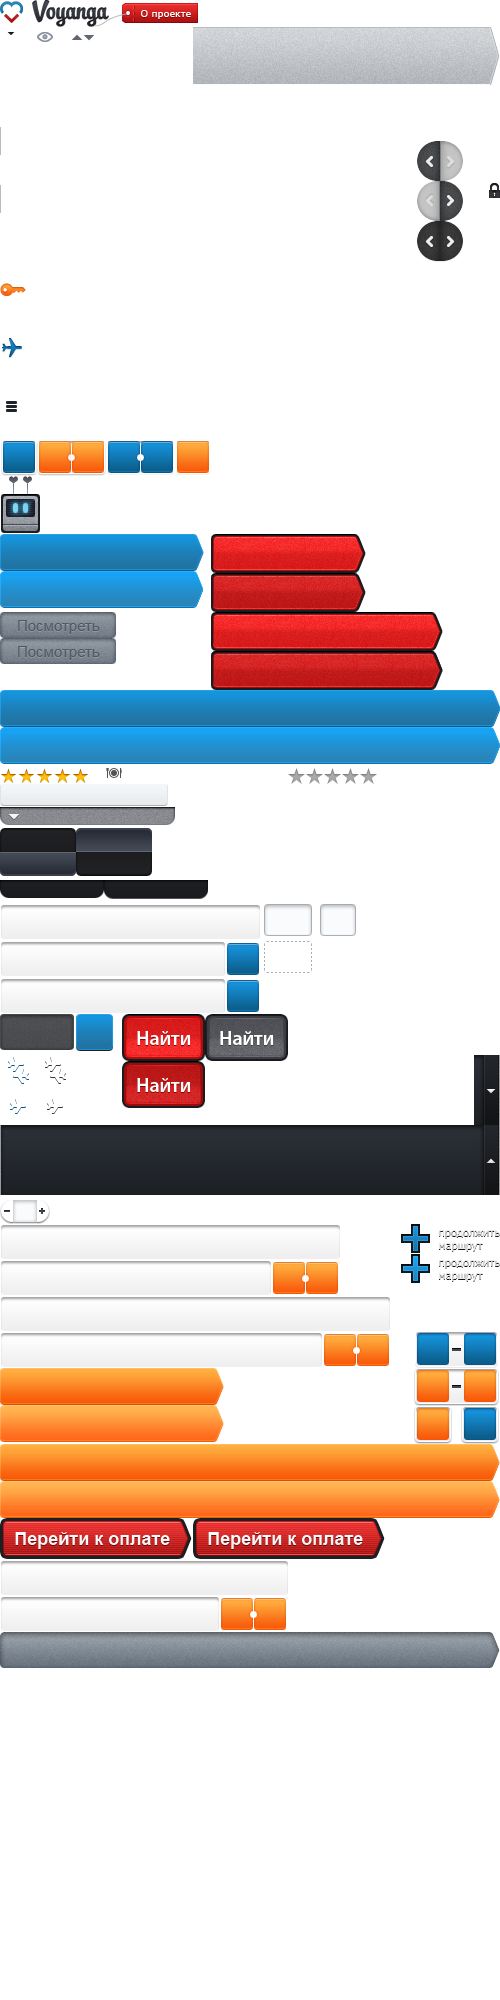
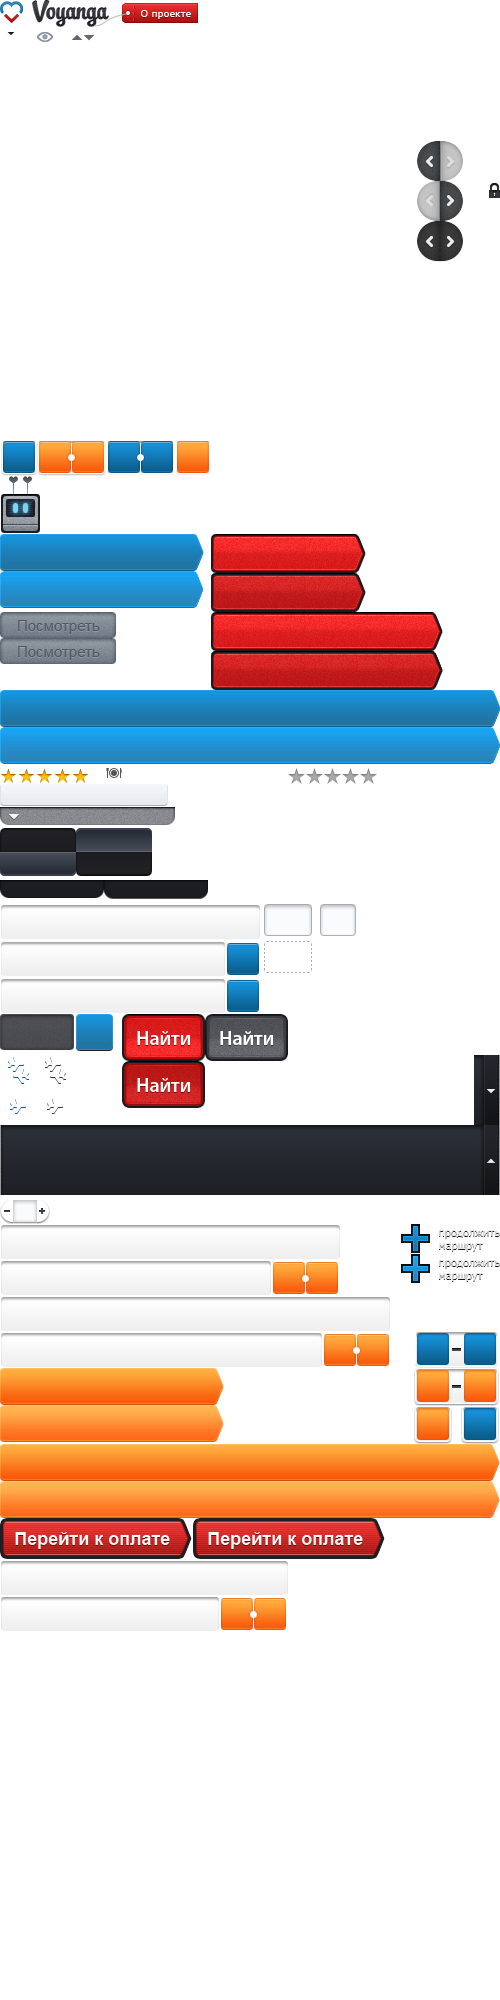
Btn и Tours

Changed region(s): [[0.39, 0.0, 1.0, 0.062], [0.0, 0.806, 1.0, 0.837], [0.0, 0.124, 0.03, 0.186]]

diff --git a/frontend/www/themes/v2/css/btn.css b/frontend/www/themes/v2/css/btn.css
@@ -62,7 +62,7 @@
     width: 117px;
 }
 .btn-cost {
-    background: url("../images/slice.png") no-repeat scroll right -690px transparent;
+    background: url("../images/btn.png") no-repeat scroll right 0px transparent;
     color: #FFFFFF;
     display: inline-block;
     font-size: 14px;
@@ -76,39 +76,26 @@
     text-align: center;
     text-shadow: 0 1px 0 #0B5B88;
 }
-.btn-cost.selected {
-    background-position: right -1632px;
-    text-shadow: 0 1px 0 #444D57;
-}
-.btn-cost.selected .l {
-    background-position: left -1632px;
-}
-.btn-cost.selected:hover {
-    background-position: right -1632px;
-    text-shadow: 0 1px 0 #444D57;
-}
-.btn-cost.selected:hover .l {
-    background-position: left -1632px;
-}
+
 .btn-cost.hotel {
-    background-position: right -1444px;
+    background-position: right -74px;
 }
 .btn-cost.hotel:hover {
-    background-position: right -1481px;
+    background-position: right -111px;
     color: #FFFFFF;
 }
 .btn-cost.hotel .l {
-    background-position: left -1444px;
+    background-position: left -74px;
 }
 .btn-cost.hotel:hover .l {
-    background-position: left -1481px;
+    background-position: left -111px;
 }
 .btn-cost:hover {
-    background-position: right -727px;
+    background-position: right -37px;
     color: #FFFFFF !important;
 }
 .btn-cost .l {
-    background: url("../images/slice.png") no-repeat scroll left -690px transparent;
+    background: url("../images/btn.png") no-repeat scroll left 0px transparent;
     display: block;
     height: 37px;
     left: -3px;
@@ -117,7 +104,7 @@
     width: 10px;
 }
 .btn-cost:hover .l {
-    background-position: left -727px;
+    background-position: left -37px;
 }
 .btn-cost .price, .btn-cost .rur {
     font-size: 26px;
@@ -245,4 +232,76 @@
 	height: 7px;
 	background: url(../images/bg-btn-dotted.png) no-repeat;
 	margin-left: 0px;
+}
+/* btnOrang */
+.btnOrang {
+    background: url("../images/btn.png") no-repeat scroll right -74px transparent;
+    color: #FFFFFF;
+    cursor: pointer;
+    display: inline-block;
+    font-family: Arial;
+    font-size: 14px;
+    font-weight: bold;
+    height: 37px;
+    line-height: 34px;
+    padding-left: 3px;
+    padding-right: 10px;
+    position: relative;
+    text-align: center;
+    text-shadow: 0 1px 0 #c36408;
+    vertical-align: middle;
+}
+
+.btnOrang span {
+    display: inline-block;
+    vertical-align: middle;
+    position: relative;
+    z-index: 2;
+}
+.btnOrang .price {
+    font-size: 26px;
+}
+.btnOrang .rur {
+    font-size: 25px;
+    margin-top: 6px;
+}
+@media screen and (-webkit-min-device-pixel-ratio:0) {
+	body:first-of-type .btnOrang .rur {
+	    font-size: 25px;
+	    margin-top: 4px;
+	}
+}
+
+.btnOrang .l {
+	background: url("../images/btn.png") no-repeat scroll left -74px transparent;
+	display: block;
+	position: absolute;
+	height: 37px;
+	width: 6px;
+	left: -4px;
+	top: 0px;
+	z-index: 1;
+}
+.btnOrang:hover {
+	background-position: right -111px;
+}
+.btnOrang:hover .l {
+	background-position: left -111px;
+}
+
+.btnBlue.inactive, .btnOrang.inactive, .btn-cost.selected {
+	background-position: right -148px;
+	text-shadow: 0 1px 0 #444D57;
+	cursor: default;
+}
+.btnBlue.inactive .l, .btnOrang.inactive .l, .btn-cost.selected .l {
+	background-position: left -148px;
+}
+.btnBlue.inactive:hover, .btnOrang.inactive:hover, .btn-cost.selected:hover {
+	background-position: right -148px;
+	text-shadow: 0 1px 0 #444D57;
+	cursor: default;
+}
+.btnBlue.inactive:hover .l, .btnOrang.inactive:hover .l, .btn-cost.selected:hover .l {
+	background-position: left -148px;
 }

diff --git a/frontend/www/themes/v2/css/style.css b/frontend/www/themes/v2/css/style.css
@@ -1701,7 +1701,6 @@ input.hotel-input {
 .costItAll {
     color: #252628;
     font-size: 22px;
-    padding-bottom: 70px;
     padding-right: 112px;
     text-align: right;
 }

diff --git a/frontend/www/themes/v2/css/panel.css b/frontend/www/themes/v2/css/panel.css
@@ -283,7 +283,7 @@
 .slide-tmblr {
 	height: 68px;
     overflow: hidden;
-    width: 948px;
+    width: 800px;
     position: absolute;
     left: 106px;
     top: 0px;

diff --git a/frontend/www/themes/v2/views/tours/overview.php b/frontend/www/themes/v2/views/tours/overview.php
@@ -68,7 +68,7 @@ $images = 'themes/v2';
       
       </div>
       <br>
-      <div class="hr-bg">
+      <div class="hr-bg" data-bind="visible: someSegmentsSelected">
         <img src="<?php echo $images.'/images/shadow-hotel.png' ?>" width="100%" height="31">
       </div>
       <div class="costItAll" data-bind="visible: someSegmentsSelected">
@@ -133,7 +133,7 @@ $images = 'themes/v2';
 	<tr data-bind="if: isAvia()">
 	  <td class="text"><span data-bind="text:selection()?'Или другой':'Выберите'"></span> вариант среди: <span class="f19" data-bind="text:numAirlines()">19</span> авиакомпаний, от <span class="f19"  data-bind="html: minPriceHtml()"></span> до <span class="f19"  data-bind="html: maxPriceHtml()"></span></td>
 	  <td class="buttons">
-            <a class="btn-cost" href="#" data-bind="click: $parents[1].setActive">
+            <a class="btnBlue" href="#" data-bind="click: $parents[1].setActive">
               <span class="l"></span>
               <span class="text">Все авиабилеты</span>
             </a>
@@ -142,7 +142,7 @@ $images = 'themes/v2';
 	<tr data-bind="if: isHotel()">
 	  <td class="text"><span data-bind="text:selection()?'Или другой':'Выберите'"></span> вариант среди: <span class="f19" data-bind="text:numHotels()">189</span> гостиниц, от <span class="f19" data-bind="html: minPriceHtml()"></span> до <span class="f19" data-bind="html: maxPriceHtml()"></span></td>
 	  <td class="buttons">
-            <a class="btn-cost hotel" href="#" data-bind="click: $parents[1].setActive">
+            <a class="btnOrang" href="#" data-bind="click: $parents[1].setActive">
               <span class="l"></span>
               <span class="text">Все отели</span>
             </a>
